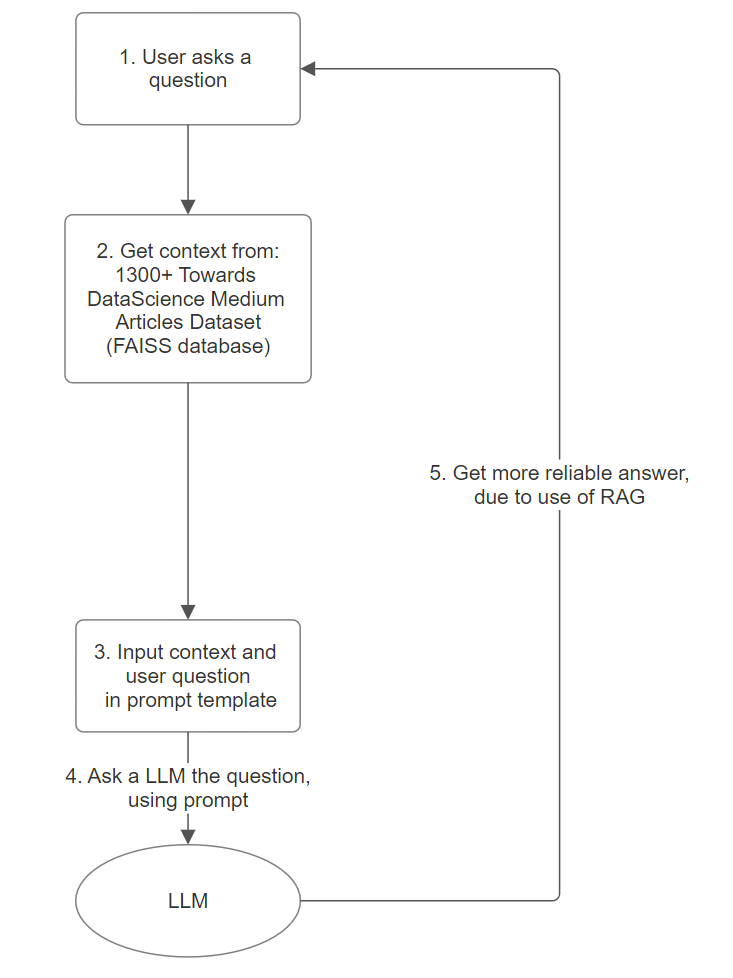
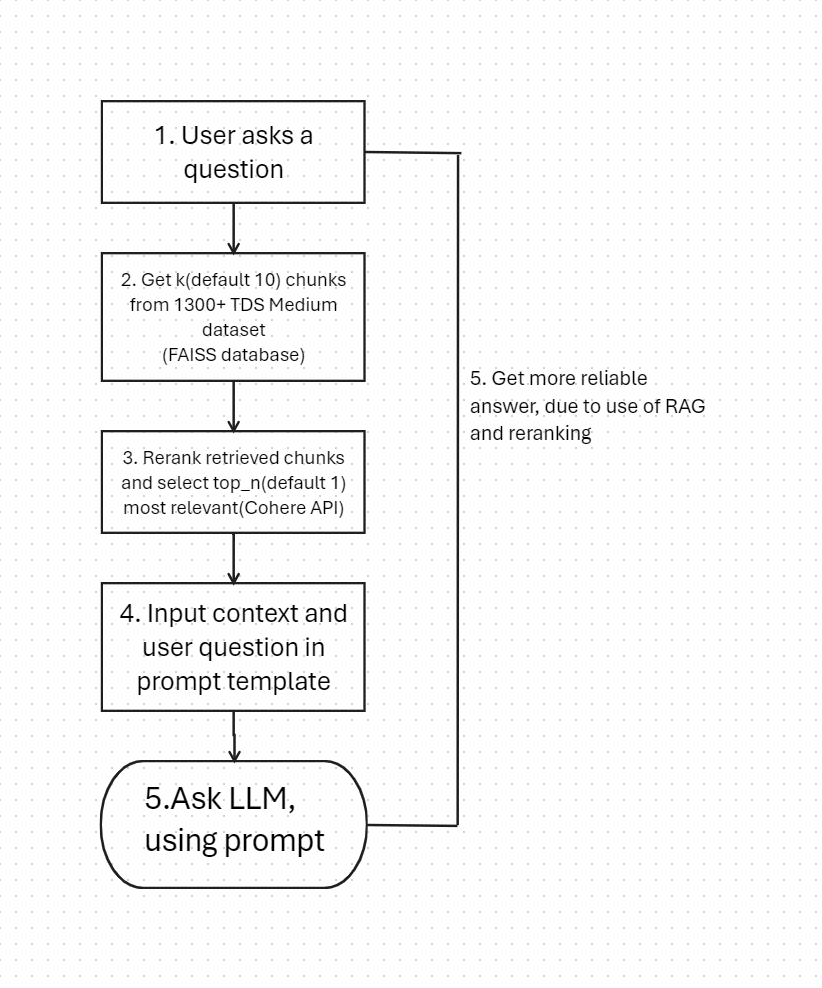
Cohere API added

Changed region(s): [[0.09, 0.0307, 0.9304, 0.9509], [0.09, 0.8896, 0.1201, 0.9509], [0.06, 0.3067, 0.09, 0.3374]]

diff --git a/main.py b/main.py
@@ -1,13 +1,32 @@
-#libraries import
-from functions import make_FAISS_db, prompt_template
+from funcitons_development import make_FAISS_db, prompt_template
 from transformers import AutoModelForCausalLM, AutoTokenizer, pipeline
 from langchain_community.llms import HuggingFacePipeline
 from langchain.schema.runnable import RunnablePassthrough
 from langchain.chains import LLMChain
+from langchain_core.output_parsers import StrOutputParser
+from langchain_cohere import CohereRerank
+from langchain.retrievers.contextual_compression import ContextualCompressionRetriever
+import os
+import argparse
+from dotenv import load_dotenv
+
+load_dotenv()
+try:
+    os.environ["COHERE_API_KEY"] = os.getenv("COHERE_API_KEY")
+except:
+    raise ValueError(
+        "Cohere API key is not set. Please set the COHERE_API_KEY environment variable."
+    )
+
 
 # QA class definition
 class QASystem:
-    def __init__(self, llm_model_name="TinyLlama/TinyLlama-1.1B-Chat-v1.0", embedding_model_name="sentence-transformers/all-MiniLM-L6-v2", max_new_tokens=500):
+    def __init__(
+        self,
+        llm_model_name="TinyLlama/TinyLlama-1.1B-Chat-v1.0",
+        embedding_model_name="sentence-transformers/all-MiniLM-L6-v2",
+        max_new_tokens=500,
+    ):
         """__init__ function initialize the system with given parameters
 
         Keyword Arguments:
@@ -18,11 +37,13 @@ class QASystem:
         self.model = AutoModelForCausalLM.from_pretrained(llm_model_name)
         self.tokenizer = AutoTokenizer.from_pretrained(llm_model_name)
         self.database = make_FAISS_db(embedding_model_name)
-        print("Creating model pipeline, it may take few minutes...")
+        print("Creating model pipeline...")
         self.max_new_tokens = max_new_tokens
         self.llm = self.get_base_llm()
         self.prompt = prompt_template()
-        self.llm_chain = LLMChain(llm=self.llm, prompt=self.prompt)
+        self.llm_chain = LLMChain(
+            llm=self.llm, prompt=self.prompt, output_parser=StrOutputParser()
+        )
 
     def get_base_llm(self):
         """get_base_llm generates pipeline of the future text generation. Here I used repetition_penalty = 1.1, other parameters are basic.
@@ -30,18 +51,19 @@ class QASystem:
         Returns:
             HuggingFacePipeline -- ready pipeline for text generation
         """
-        self.pipeline =  pipeline(
+        self.pipeline = pipeline(
             model=self.model,
             tokenizer=self.tokenizer,
             task="text-generation",
             repetition_penalty=1.1,
             return_full_text=True,
-            max_new_tokens=self.max_new_tokens
+            max_new_tokens=self.max_new_tokens,
         )
         return HuggingFacePipeline(pipeline=self.pipeline)
 
     def answer(self, user_query, number_of_articles=1):
-        """answer function generate the response from llm with RAG option
+        """answer function generate the response from llm with RAG option.
+        Additionally uses Cohere Rerank to rerank retrieved articles and find the most relevant one.
 
         Arguments:
             user_query {str} -- user question.
@@ -50,32 +72,62 @@ class QASystem:
         Returns:
             dict -- answer from llm with context.
         """
-        print("LLM answers...")
-        retriever = self.database.as_retriever(
+        print("LLM answers, it could take a min...")
+        self.naive_retriever = self.database.as_retriever(
             search_type="similarity",
-            search_kwargs={'k': number_of_articles}
+            search_kwargs={"k": number_of_articles},
         )
-        rag_chain = (
-                {"context": retriever, "question": RunnablePassthrough()}
-                | self.llm_chain
+
+        compressor = CohereRerank(top_n=1)
+        self.cohere_retriever = ContextualCompressionRetriever(
+            base_compressor=compressor, base_retriever=self.naive_retriever
         )
+
+        rag_chain = {
+            "context": self.cohere_retriever,
+            "question": RunnablePassthrough(),
+        } | self.llm_chain
         response = rag_chain.invoke(user_query)
         return response
 
-if __name__ == '__main__':
+
+if __name__ == "__main__":
+    parser = argparse.ArgumentParser()
+    parser.add_argument("--llm_model_name", default="TinyLlama/TinyLlama-1.1B-Chat-v1.0", type=str)
+    parser.add_argument(
+        "--embedding_model_name", default="sentence-transformers/all-MiniLM-L6-v2", type=str
+    )
+    parser.add_argument("--max_new_tokens", default=1000, type=int)
+    parser.add_argument("--number_of_articles_for_context", default=10, type=int)
+    parser.add_argument("--test_query", default="What is linear regression?", type=str)
+    args = parser.parse_args()
+
     # set the parametrs
-    llm_model_name = "TinyLlama/TinyLlama-1.1B-Chat-v1.0"
-    embedding_model_name = "sentence-transformers/all-MiniLM-L6-v2"
-    max_new_tokens = 500
-    number_of_articles_for_context = 1
-    
+    llm_model_name = args.llm_model_name
+    embedding_model_name = args.embedding_model_name
+    max_new_tokens = args.max_new_tokens
+    number_of_articles_for_context = args.number_of_articles_for_context
+    test_query = args.test_query
+
     # test the system
-    test_model = QASystem(llm_model_name=llm_model_name, embedding_model_name=embedding_model_name, max_new_tokens=max_new_tokens)
+    test_model = QASystem(
+        llm_model_name=llm_model_name,
+        embedding_model_name=embedding_model_name,
+        max_new_tokens=max_new_tokens,
+    )
     test_query = "What is linear regression?"
-    answer_with_RAG = test_model.answer(user_query=test_query, number_of_articles=number_of_articles_for_context)
-    print('Question:\n', answer_with_RAG['question'])
-    print('Context:\n', answer_with_RAG['context'][0].to_json()['kwargs']['metadata']['Text'][:200] + '...')
-    print('Answer with RAG:\n', answer_with_RAG['text'].split('[/INST]')[1].strip())
-    #without RAG
-    anwer_without_RAG = test_model.get_base_llm().invoke(test_query)
-    print('Answer without RAG:\n', anwer_without_RAG)
+    answer_with_RAG = test_model.answer(
+        user_query=test_query, number_of_articles=number_of_articles_for_context
+    )
+    print("Question:\n", answer_with_RAG["question"])
+    print("Articles from naive retriever output:\n")
+    naive_retriever = test_model.naive_retriever.invoke(test_query)
+    for i in range(len(naive_retriever)):
+        print("\nTitle", i + 1, ": ", naive_retriever[i].to_json()["kwargs"]["metadata"]["Title"])
+    print("\nArticles from Cohere rerank retriever used for context output:\n")
+    cohere_retriever = test_model.cohere_retriever.invoke(test_query)
+    for i in range(len(cohere_retriever)):
+        print("\n", cohere_retriever[i].to_json()["kwargs"]["metadata"])
+        print("\n", cohere_retriever[i].to_json()["kwargs"]["page_content"])
+    print("\nAnswer from the LLM:\n")
+    print(answer_with_RAG["text"].split("[/INST]")[1].strip())

diff --git a/utils.py b/utils.py
@@ -5,6 +5,7 @@ from langchain.embeddings.huggingface import HuggingFaceEmbeddings
 from langchain_community.document_loaders import DataFrameLoader
 from langchain.prompts import PromptTemplate
 
+
 def make_FAISS_db(embedding_model_name):
     """make_FAISS_db generates vector database for storing the embeddings.
 
@@ -15,29 +16,24 @@ def make_FAISS_db(embedding_model_name):
         FAISS -- the database
     """
     embedding_model = HuggingFaceEmbeddings(model_name=embedding_model_name)
-    df = pd.read_csv('articles.csv')
-    articles = DataFrameLoader(df, page_content_column = "Title")
+    df = pd.read_csv("articles.csv")
+    articles = DataFrameLoader(df, page_content_column="Title")
     documents = articles.load()
-    splitter = TokenTextSplitter(
-        chunk_size=500, 
-        chunk_overlap=50
-        )
+    splitter = TokenTextSplitter(chunk_size=500, chunk_overlap=50)
     splitted_texts = splitter.split_documents(documents)
-    print('FAISS database is generating...')
-    FAISS_database = FAISS.from_documents(
-        splitted_texts, 
-        embedding_model
-        )
+    print("FAISS database is generating...")
+    FAISS_database = FAISS.from_documents(splitted_texts, embedding_model)
     return FAISS_database
 
-def prompt_template():
-        """prompt_template generates prompt template which will be filled out with context form RAG and question from user. 
-        The template is standard, but with "I don't know" option, which is essential for generating science text.
 
-        Returns:
-            HuggingFacePipeline -- ready pipeline for text generation
-        """      
-        prompt_template = """
+def prompt_template():
+    """prompt_template generates prompt template which will be filled out with context form RAG and question from user.
+    The template is standard, but with "I don't know" option, which is essential for generating science text.
+
+    Returns:
+        HuggingFacePipeline -- ready pipeline for text generation
+    """
+    prompt_template = """
         [INST]
         Answer the question based on the context below. If the
         question cannot be answered using the information provided answer
@@ -48,7 +44,4 @@ def prompt_template():
         Question: {question}
 
         [/INST]"""
-        return PromptTemplate(
-            input_variables=["context", "question"],
-            template=prompt_template
-        )
+    return PromptTemplate(input_variables=["context", "question"], template=prompt_template)

diff --git a/README.md b/README.md
@@ -1,5 +1,9 @@
 # Project overview
-This is a Question-Answering program based on [TinyLlama/TinyLlama-1.1B-Chat-v1.0](https://huggingface.co/TinyLlama/TinyLlama-1.1B-Chat-v1.0) llm from [HuggingFace](https://huggingface.co/). The project also involves RAG system based on [1300+ Towards DataScience Medium Articles Dataset](https://www.kaggle.com/datasets/meruvulikith/1300-towards-datascience-medium-articles-dataset) data set from kaggle.
+This is a Question-Answering program based on [TinyLlama/TinyLlama-1.1B-Chat-v1.0](https://huggingface.co/TinyLlama/TinyLlama-1.1B-Chat-v1.0) llm from [HuggingFace](https://huggingface.co/). The project also involves RAG system based on [1300+ Towards DataScience Medium Articles Dataset](https://www.kaggle.com/datasets/meruvulikith/1300-towards-datascience-medium-articles-dataset) data set from kaggle. Additionally I added rerank method, which works as follows:
+1. Get k(default 10) chunks from database
+2. With the help of Cohere API, rerank this articles and select top_n(default 1) chunks relatively to the previously selcted chunks. And use only them for context of LLM query
+
+This method suppose to help to get more meaningful and precise information from the LLM.
 
 Retrieve Augmented Generation in my program works as follows:
 
@@ -15,6 +19,14 @@ Install all the libraries by running, I used python version 3.11.4
 ```
 pip install -r requirements.txt
 ```
+
+You will also need a .env file in the folder with the project. In the .env file you need to place your Cohere API Key. You can create yours for free on theirs [website](https://dashboard.cohere.com/api-keys). In the file paste your key:
+
+```
+
+COHERE_API_KEY = "YOUR_API_KEY_FROM_THE_WEBSITE"
+```
+
 And after that run the main.py
 It will generate a response for the test question.
 If you want to change the question, you must change it in the main.py, "test_query" variable.
